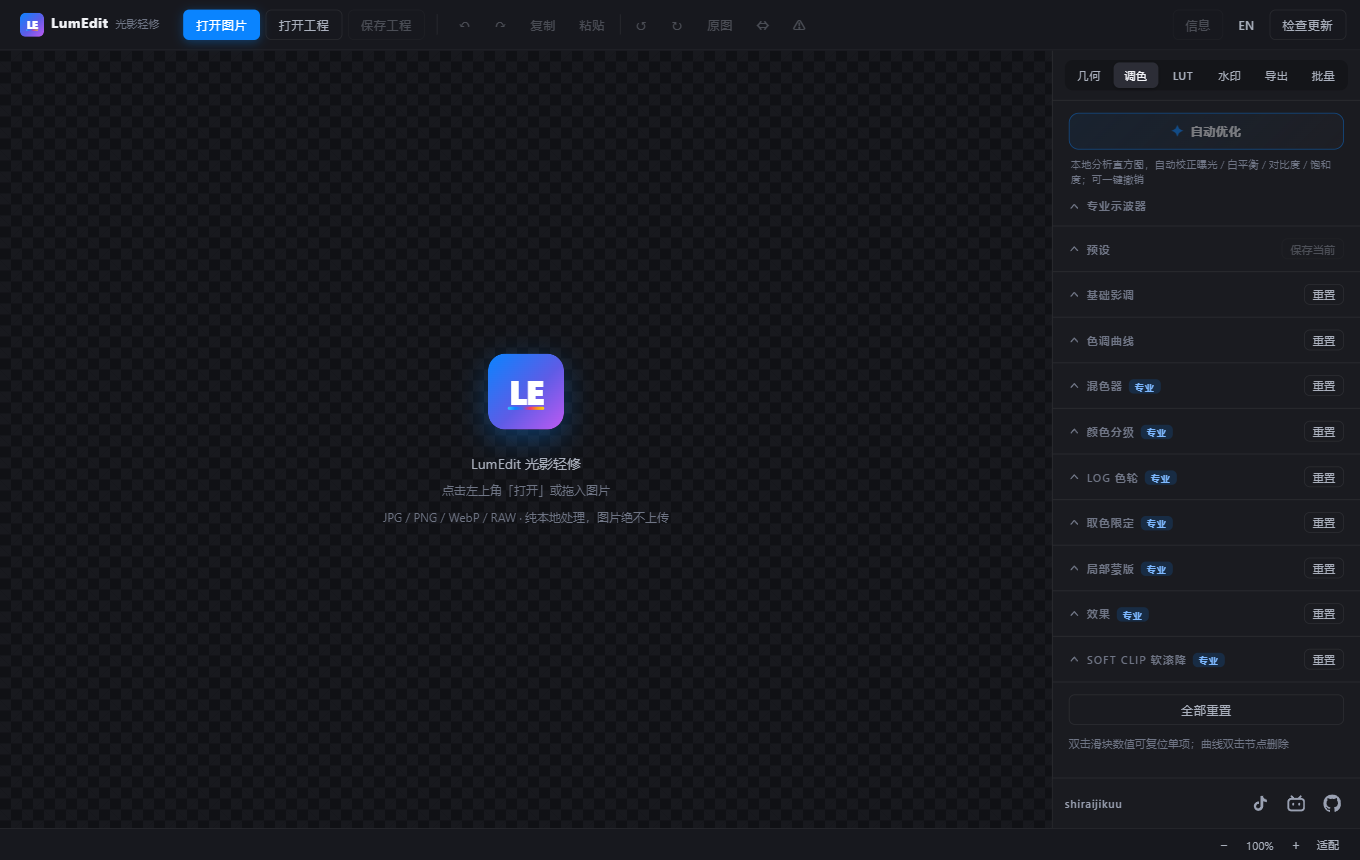
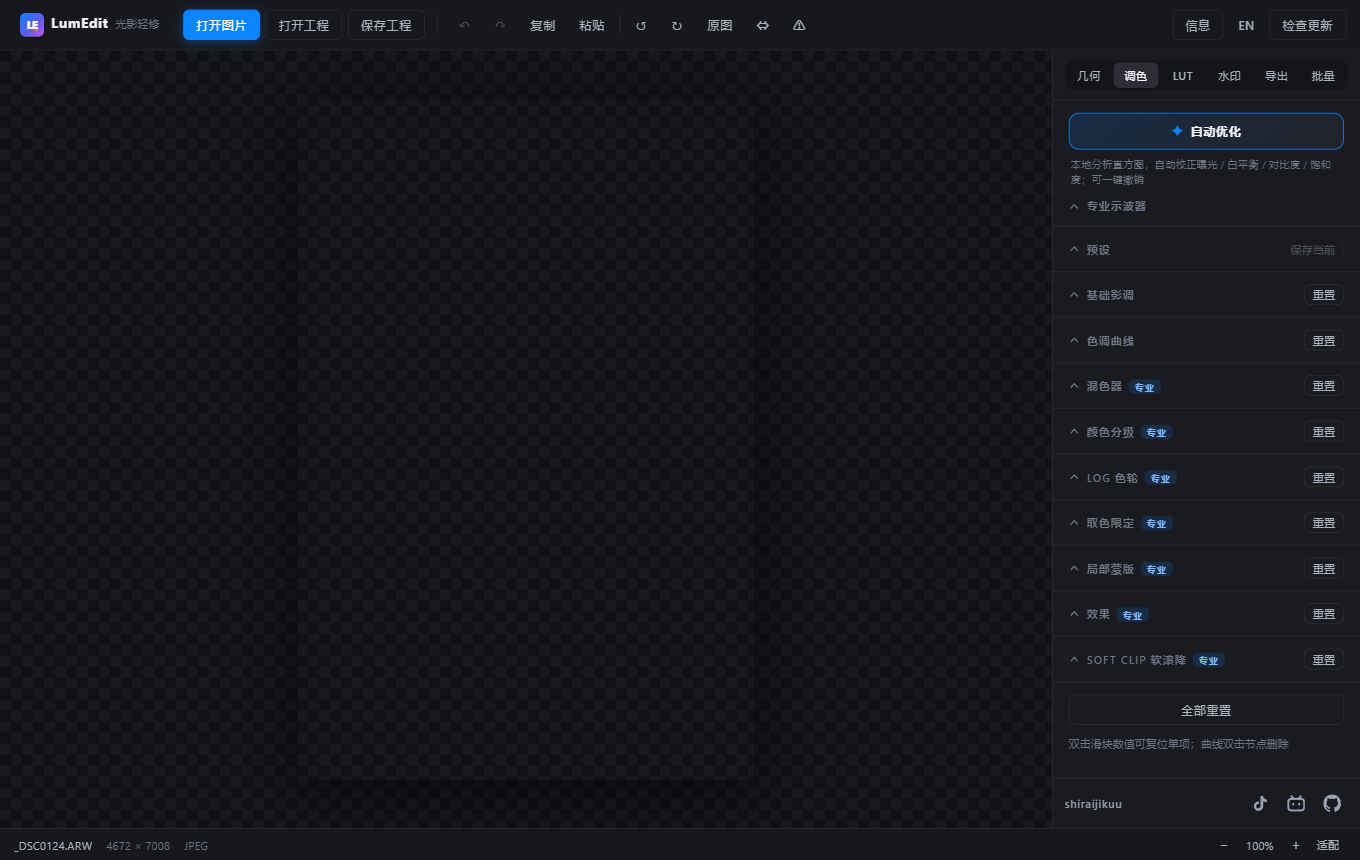
docs: 使用真实 ARW 更新界面截图

diff --git a/release-notes.md b/release-notes.md
@@ -4,9 +4,9 @@
 
 发布日期：2026-09-14
 
-![LumEdit main interface](https://raw.githubusercontent.com/shiraijikuu/lumedit/main/docs/screenshots/app-main.png?v=20260914)
+![LumEdit main interface](https://raw.githubusercontent.com/shiraijikuu/lumedit/main/docs/screenshots/app-main.png?v=20260914b)
 
-![LumEdit loaded image and color grading](https://raw.githubusercontent.com/shiraijikuu/lumedit/main/docs/screenshots/app-loaded.png?v=20260914)
+![LumEdit loaded image and color grading](https://raw.githubusercontent.com/shiraijikuu/lumedit/main/docs/screenshots/app-loaded.png?v=20260914b)
 
 ## 新增
 - **一键自动优化**：本地 GPU 直方图分析 + 规则引擎，自动校正曝光、白平衡、对比度与饱和度；分析目标 < 100ms，结果可一键撤销

diff --git a/README.md b/README.md
@@ -10,7 +10,7 @@
 
 | LumEdit 主界面 | 载入照片与调色面板 |
 |---|---|
-| ![LumEdit 主界面](docs/screenshots/app-main.png?v=20260914) | ![LumEdit 载入照片与深化调色面板](docs/screenshots/app-loaded.png?v=20260914) |
+| ![LumEdit 主界面](docs/screenshots/app-main.png?v=20260914b) | ![LumEdit 载入索尼 a7C II RAW 并展示 Log 色轮](docs/screenshots/app-loaded.png?v=20260914b) |
 
 ---
 
